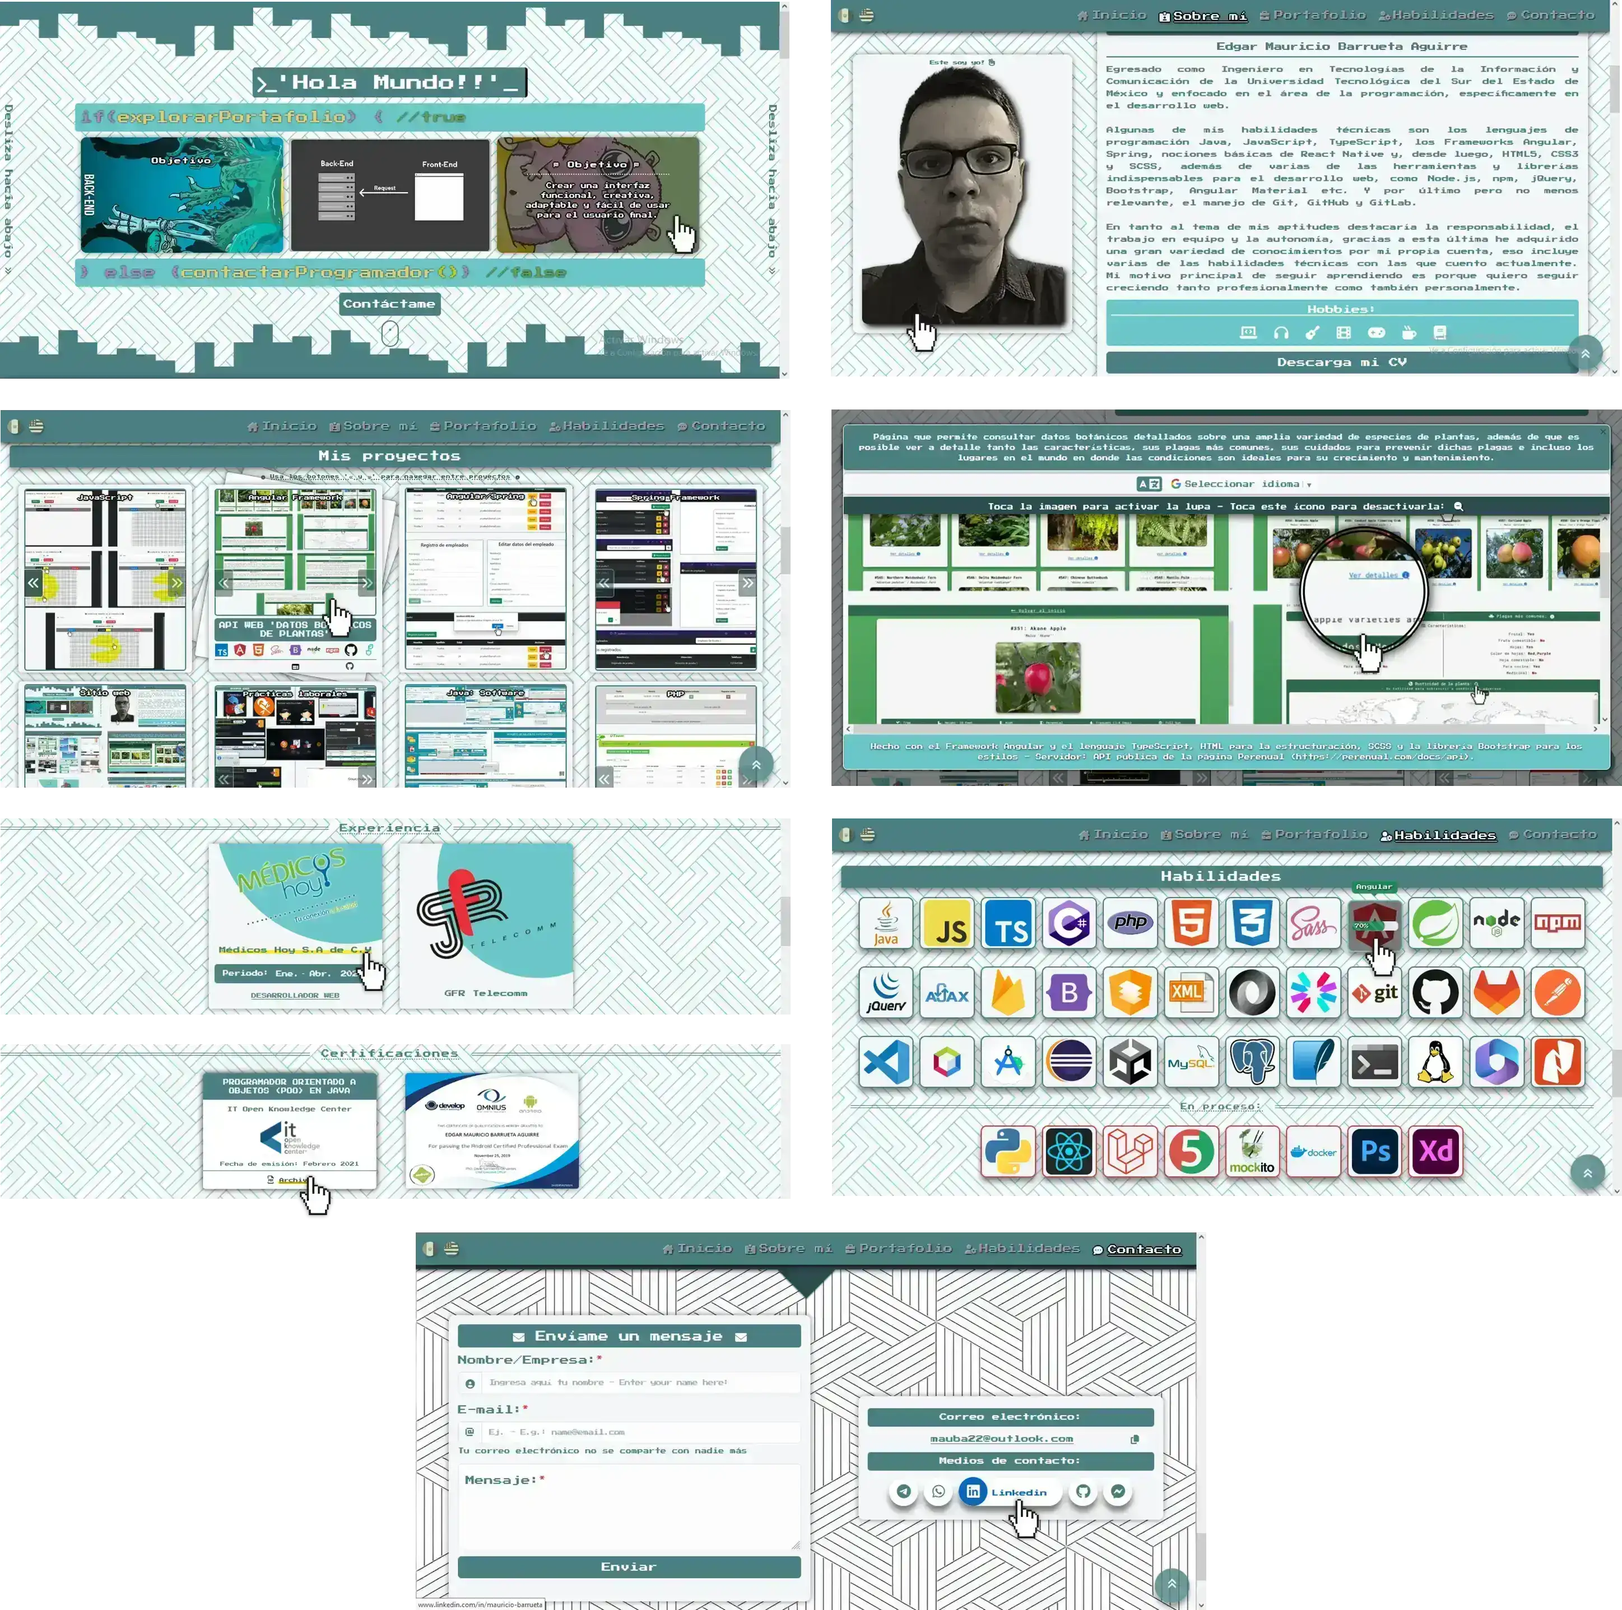
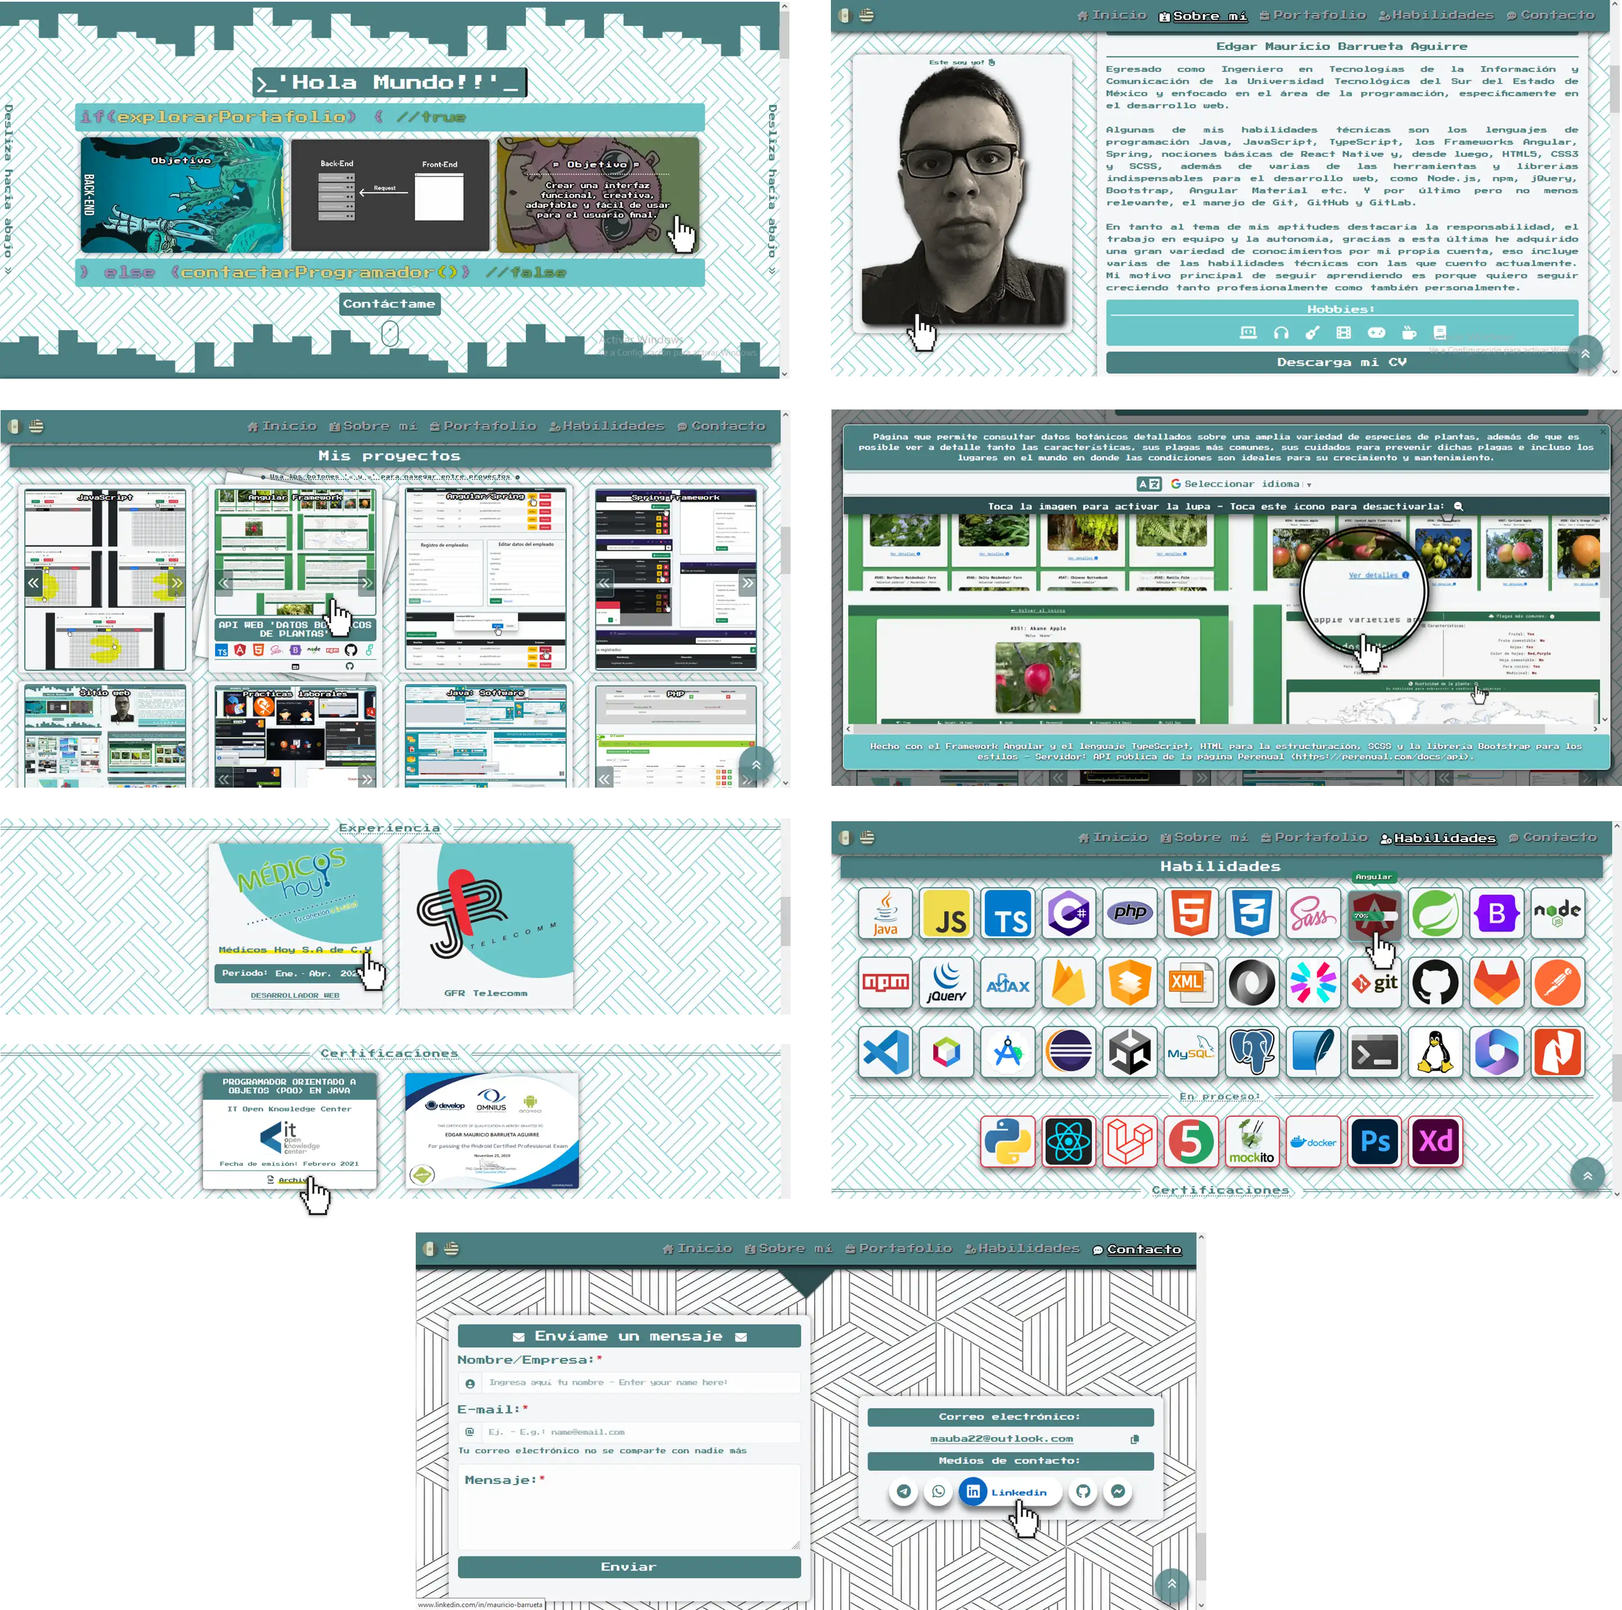
Updates

diff --git a/index.html b/index.html
@@ -147,10 +147,10 @@
       <div class="p-cards-container"> 
         <div class="project-card carousel slide" id="JavaScriptAPIProjects" data-bs-ride="carousel">
           <div class="carousel-inner">
-            <div class="img-container carousel-item active" data-bs-interval="30000">
+            <div class="img-container carousel-item" data-bs-interval="30000">
               <span class="img-carousel-title">JavaScript</span>
               <img src="img/proyectos/PixelArt.webp" class="img-item" alt="HTML para la estructuración, JavaScript y algo de jQuery para la funcionalidad, 
-                CSS y Bootstrap para los estilos y el módulo gh-pages de npm para la publicación de la página en GitHub Pages." data-title="Página que 
+                CSS, el framework Bootstrap para los estilos y el módulo gh-pages de npm para la publicación de la página en GitHub Pages." data-title="Página que 
                 permite dibujar al estilo arte de pixel, con la posibilidad de crear una cuadrícula de hasta 50x25 píxeles, cuenta con una paleta de colores y los
                 botones de borrar en caso de error y el de dibujar para continuar con el trazo.">
               <div class="details carousel-caption">
@@ -166,6 +166,30 @@
                   <li></li>
                   <li>
                     <a href="https://github.com/MauricioBarrueta/PixelArtGenerator.git" data-bs-toggle="tooltip" data-bs-placement="top" 
+                      data-bs-custom-class="web-icons-a" title="GitHub" target="_blank"></a>
+                  </li>             
+                </ul>
+              </div>
+            </div>
+            <div class="img-container carousel-item active" data-bs-interval="30000">
+              <span class="img-carousel-title">JavaScript</span>
+              <img src="img/proyectos/PasswordGenerator.webp" class="img-item" alt="HTML para la estructuración, JavaScript y algo de jQuery para la funcionalidad, 
+                SCSS, el framework Bootstrap para los estilos y el módulo gh-pages de npm para la publicación de la página en GitHub Pages." data-title="Sitio web 
+                para generar contraseñas aleatorias personalizadas, permite elegir cuáles caracteres puede incluir y cuáles no, si puede tener espacios o caracteres
+                repetidos y la longitud de la contraseña, que a mayor longitud mayor seguridad y viceversa.">
+              <div class="details carousel-caption">
+                <h2 class="carousel-project-title" data-es="Generador de contraseñas gratuito" data-en="Free password generator"></h2>
+                <div class="tec-icons">
+                  <ul class="static-projects-icons p-tecnologies"></ul>
+                </div>  
+                <ul class="web-icons">              
+                  <li>
+                    <a href="https://mauriciobarrueta.github.io/PasswordGenerator/" data-bs-toggle="tooltip" data-bs-placement="top" 
+                      data-bs-custom-class="web-icons-a" title="Web" target="_blank"></a>
+                  </li>
+                  <li></li>
+                  <li>
+                    <a href="https://github.com/MauricioBarrueta/PasswordGenerator.git" data-bs-toggle="tooltip" data-bs-placement="top" 
                       data-bs-custom-class="web-icons-a" title="GitHub" target="_blank"></a>
                   </li>             
                 </ul>
@@ -230,11 +254,10 @@
             </div>            
             <div class="img-container carousel-item" data-bs-interval="30000">
               <span class="img-carousel-title">JavaScript</span>
-              <img src="img/proyectos/RMAPI.webp" class="img-item"
-                alt="HTML para la estructuración y JavaScript para la funcionalidad, CSS y la librería Bootstrap para los estilos y el módulo 
-                gh-pages de npm para la publicación de la página en GitHub Pages - Servidor: API de la serie Rick and Morty (https://rickandmortyapi.com/)"
-                data-title="Proyecto JavaScript: Página que consume la API la cual permite consultar todos y cada uno de los personajes de la serie 'Rick and Morty', 
-                así como los datos correspondientes de cada uno de ellos.">
+              <img src="img/proyectos/RMAPI.webp" class="img-item" alt="HTML para la estructuración y JavaScript para la funcionalidad, CSS, el 
+                framework Bootstrap para los estilos y el módulo gh-pages de npm para la publicación de la página en GitHub Pages - Servidor: API 
+                de la serie Rick and Morty (https://rickandmortyapi.com/)" data-title="Proyecto JavaScript: Página que consume la API la cual permite 
+                consultar todos y cada uno de los personajes de la serie 'Rick and Morty', así como los datos correspondientes de cada uno de ellos.">
               <div class="details carousel-caption">
                 <h2 class="carousel-project-title" data-es="API Web 'Rick and Morty'" data-en="'Rick and Morty' Web API"></h2>
                 <div class="tec-icons">
@@ -278,7 +301,7 @@
             <div class="img-container carousel-item active" data-bs-interval="30000">
               <span class="img-carousel-title">Angular Framework</span>
               <img src="img/proyectos/PlantsAPI.webp" class="img-item" alt="Hecho con el Framework Angular y el lenguaje TypeScript, HTML para la 
-                estructuración, SCSS y la librería Bootstrap para los estilos - Servidor: API pública de la página Perenual (https://perenual.com/docs/api)." 
+                estructuración, SCSS y Bootstrap para los estilos - Servidor: API pública de la página Perenual (https://perenual.com/docs/api)." 
                 data-title="Página que permite consultar datos botánicos detallados sobre una amplia variedad de especies de plantas, además de que es posible 
                 ver a detalle tanto las características, sus plagas más comunes, sus cuidados para prevenir dichas plagas e incluso los lugares en el mundo 
                 en donde las condiciones son ideales para su crecimiento y mantenimiento.">
@@ -303,7 +326,7 @@
             <div class="img-container carousel-item" data-bs-interval="30000">
               <span class="img-carousel-title">Angular Framework</span>
               <img src="img/proyectos/OMDbAPI.webp" class="img-item" alt="Hecho con el Framework Angular y el lenguaje TypeScript, HTML para la 
-                estructuración, SCSS y la librería Bootstrap para los estilos - Servidor: API pública 'OMDb API' (http://www.omdbapi.com/)." 
+                estructuración, SCSS y el framework Bootstrap para los estilos - Servidor: API pública 'OMDb API' (http://www.omdbapi.com/)." 
                 data-title="Página que permite consultar información detallada sobre una amplia variedad de películas y series de televisión,
                 además de que, en el caso de las series, es posible consultar cada temporada y cada capítulo correspondiente a esta, así como 
                 los datos de cada capítulo.">     
@@ -328,7 +351,7 @@
             <div class="img-container carousel-item" data-bs-interval="30000">
               <span class="img-carousel-title">Angular Framework</span>
               <img src="img/proyectos/wikiAPI.png" class="img-item" alt="Hecho con el framework Angular y el lenguaje TypeScript, HTML para la 
-                estructuración, CSS y la librería Bootstrap para los estilos - Servidor: API pública 'MediaWiki', software utilizado por Wikipedia 
+                estructuración, CSS y el framework Bootstrap para los estilos - Servidor: API pública 'MediaWiki', software utilizado por Wikipedia 
                 (www.mediawiki.org/wiki/API:Tutorial)." data-title="Página que permite filtrar y consultar una amplia variedad de información disponible 
                 en el sitio web Wikipedia, el usuario ingresa lo que desea buscar y dependiendo la palabra se filtran los resultados que coincidan.">   
               <div class="details carousel-caption">
@@ -397,8 +420,8 @@
             </div>               
             <div class="img-container carousel-item" data-bs-interval="30000">
               <span class="img-carousel-title">Angular Framework</span>
-              <img src="img/proyectos/Ecomm.png" class="img-item" alt="Hecho únicamente con el framework Angular y el lenguaje
-                TypeScript, HTML para la estructuración, Angular Material, CSS y la librería Bootstrap para los estilos - Servidor: JSON Server (npm) local."
+              <img src="img/proyectos/Ecomm.png" class="img-item" alt="Hecho únicamente con el framework Angular y el lenguaje TypeScript, HTML 
+                para la estructuración, Angular Material, CSS y el framework Bootstrap para los estilos - Servidor: JSON Server (npm) local."
                 data-title="Práctica de un sistema 'e-commerce' el cual simula la compra de uno o varios productos por medio de un carrito de compras, 
                 además de escoger si se recoge en paquetería o se entrega al domicilio especificado.">   
               <div class="details carousel-caption">
@@ -442,7 +465,7 @@
           <div class="img-container">
             <span class="img-carousel-title">Angular/Spring</span>
             <img src="img/proyectos/FullStackCRUD.png" class="img-item" alt="Backend: Java, TypeScript y Spring Framework (Spring Web, Spring Data JPA) 
-              - Frontend: El Framework Angular, HTML para la estructuración, CSS, la librería Bootstrap para los estilos - Servidor: Base de Datos MySQL." 
+              - Frontend: El Framework Angular, HTML para la estructuración, CSS y el framework Bootstrap para los estilos - Servidor: Base de Datos MySQL." 
               data-title="Práctica de una API RESTful la cual permite realizar las operaciones CRUD, simulando un proyecto en donde el lado Backend y el lado 
               Frontend son desarrollados de manera independiente, pero que al mismo tiempo son dependientes uno de otro.">
           </div>
@@ -557,9 +580,9 @@
           <div class="img-container">
             <span class="img-carousel-title" data-es="Sitio web" data-en="Website"></span>
             <img src="img/proyectos/Portafolio.webp" class="img-item" alt="HTML para la estructuración, JavaScript y jQuery para la funcionalidad, 
-              CSS y la librería Bootstrap para los estilos y el módulo gh-pages de 'npm' para la publicación de la página en GitHub Pages." 
-              data-title="Portafolio web en el cuál muestro mi experiencia como desarrollador, permite descargar mi CV en formato PDF y además, 
-              envíar un e-mail directamente a mi bandeja de entrada, entre otras funciones.">
+              CSS y el framework Bootstrap para los estilos, además del módulo gh-pages de 'npm' para la publicación de la página en GitHub Pages." 
+              data-title="Portafolio web desarrollado por un servidor en el cuál muestro mi experiencia como desarrollador y algunas de mis habilidades, 
+              además de que permite descargar mi Currículum en formato PDF y también envíar un e-mail directamente a mi bandeja de entrada, entre otras funciones.">
           </div>
           <button class="showInfo"></button>
           <div class="details">
@@ -701,7 +724,7 @@
             <div class="img-container carousel-item" data-bs-interval="30000">
               <span class="img-carousel-title">PHP</span>
               <img src="img/proyectos/RedSocial.webp" class="img-item" alt="Hecho con PHP, JavaScript, jQuery y AJAX, HTML para la 
-                estructuración, CSS y la librería Bootstrap para los estilos - Servidor: Base de Datos MySQL." data-title="Proyecto que simula 
+                estructuración, CSS y el framework Bootstrap para los estilos - Servidor: Base de Datos MySQL." data-title="Proyecto que simula 
                 una red social enfocada a recién egresados y empresas en busca de nuevos talentos, permite realizar publicaciones, enviar solicitudes 
                 de amistad, postulaciones y además, cuenta con un chat en donde ambas partes se pueden comunicar entre sí.">  
               <div class="details carousel-caption">
@@ -855,7 +878,7 @@
           <div class="img-container">
             <span class="img-carousel-title">Java: Servlet</span>
             <img src="img/proyectos/Servlet.png" class="img-item" alt="Hecho con Java y la Tecnología JavaServer Pages (JSP), JavaScript y 
-              jQuery, HTML para la estructuración, CSS y la librería Bootstrap para los estilos - Servidor: Base de Datos MySQL." data-title="
+              jQuery, HTML para la estructuración, CSS y el framework Bootstrap para los estilos - Servidor: Base de Datos MySQL." data-title="
               Práctica muy sencilla de un sistema hecho con la tecnología JSP el cual simula una web de una empresa enfocada a la venta y renta
               de automóviles, todo mediante las operaciones CRUD y de acuerdo a los privilegios que tenga cada usuario (administrador o empleado).">
           </div>

diff --git a/css/styles.css b/css/styles.css
@@ -401,8 +401,9 @@ img.Docker-Icon { content: url(../svg/Docker.svg); } img.AdobeXD-Icon { content:
     font-size: 8px;    
 }
 #titleInfo::before, #titleInfo::after, .carousel-instructions::before, .carousel-instructions::after { 
-    content: "\f05a"; margin-inline: 8px; text-decoration: none !important; 
+    content: "\f05a"; margin-inline: 8px; font-size: 10px; text-decoration: none !important; 
 }
+.carousel-instructions::after { content: "\f302"; }
 .carousel-instructions {   
     font-size: 7px; letter-spacing: 1px;    
 }
@@ -433,15 +434,15 @@ img.Docker-Icon { content: url(../svg/Docker.svg); } img.AdobeXD-Icon { content:
     height: 15%; top: auto; width: auto; bottom: 40%; /* bottom: 85%; */      
 }
 .carousel-control-prev:hover, .carousel-control-next:hover { opacity: 1; }
-.carousel-control-prev { border-radius: 0 5px 5px 0; left: 10px; border-left: 0; }
-.carousel-control-next { border-radius: 5px 0 0 5px;  right: 10px; border-right: 0; }
+.carousel-control-prev { border-radius: 0 5px 5px 0; left: 0; border-left: 0; }
+.carousel-control-next { border-radius: 5px 0 0 5px;  right: 0; border-right: 0; }
 .carousel-control-prev-icon, .carousel-control-next-icon {  /* Carousel Buttons Icons */
-    scale: 0.7; filter: invert(100%); 
+    scale: 0.55; filter: invert(100%); 
     transition: 0.25s;  
 }
 .carousel-control-prev-icon { background: url(../svg/angles-left.svg); }
-.carousel-control-prev:hover .carousel-control-prev-icon { transform: translateX(-2px); }
-.carousel-control-next:hover .carousel-control-next-icon { transform: translateX(2px); }
+.carousel-control-prev:hover .carousel-control-prev-icon { transform: translateX(-3px); }
+.carousel-control-next:hover .carousel-control-next-icon { transform: translateX(3px); }
 .carousel-control-next-icon { background: url(../svg/angles-right.svg); }
 .img-carousel-title {
     width: 100%; position: relative; display: inline-block; 
@@ -929,7 +930,7 @@ img.Docker-Icon { content: url(../svg/Docker.svg); } img.AdobeXD-Icon { content:
 }
 .footer-bottom p { font-size: 12px; word-spacing: 2px;  text-transform: capitalize;  margin: 0; }  /* Footer-Bottom div text */
 .footer-bottom>p::after {
-    content: "\f597"; font: var(--fa-font-regular); font-size: 16px;
+    content: "😏"; font: var(--fa-font-regular); font-size: 16px;
     margin-left: 10px; display: inline-block; animation: var(--fa-bounce-animation); --fa-bounce-height: 1
 }
 .footer-bottom span { text-transform: uppercase; opacity: .5; font-weight: 200; }

diff --git a/templates/templates.html b/templates/templates.html
@@ -251,6 +251,13 @@
             style="width: 65%" aria-valuenow="65" aria-valuemin="0" aria-valuemax="100">65%</div>
         </div>
       </div>
+      <div class="card-skills" data-bs-toggle="tooltip" data-bs-placement="top" data-bs-custom-class="tooltip-success" title="Bootstrap">
+        <img class="Bootstrap-Icon position-absolute top-50 start-50 translate-middle" style="height: auto;">
+        <div class="info-skills progress">
+          <div class="progress-bar progress-bar-striped progress-bar-animated bg-success" role="progressbar"
+            style="width: 75%" aria-valuenow="75" aria-valuemin="0" aria-valuemax="100">75%</div>
+        </div>
+      </div>
       <div class="card-skills" data-bs-toggle="tooltip" data-bs-placement="top" data-bs-custom-class="tooltip-warning" title="Node.js">
         <img class="Node-Icon position-absolute top-50 start-50 translate-middle">
         <div class="info-skills progress">
@@ -285,14 +292,7 @@
           <div class="progress-bar progress-bar-striped progress-bar-animated bg-danger" role="progressbar" style="width: 30%"
             aria-valuenow="30" aria-valuemin="0" aria-valuemax="100">30%</div>
         </div>
-      </div>
-      <div class="card-skills" data-bs-toggle="tooltip" data-bs-placement="top" data-bs-custom-class="tooltip-success" title="Bootstrap">
-        <img class="Bootstrap-Icon position-absolute top-50 start-50 translate-middle" style="height: auto;">
-        <div class="info-skills progress">
-          <div class="progress-bar progress-bar-striped progress-bar-animated bg-success" role="progressbar"
-            style="width: 75%" aria-valuenow="75" aria-valuemin="0" aria-valuemax="100">75%</div>
-        </div>
-      </div>
+      </div>      
       <div class="card-skills" data-bs-toggle="tooltip" data-bs-placement="top" data-bs-custom-class="tooltip-warning" title="Angular Material">
         <img class="AngMaterial-Icon position-absolute top-50 start-50 translate-middle">
         <div class="info-skills progress">

diff --git a/js/main.js b/js/main.js
@@ -6,14 +6,16 @@ window.onload = () => {
     /* Se activa la animación del texto de la introducción y el scroll */
     $('.h1-h').css("animation-delay", "1.52s");
     switchLang('es') 
+
+    /* Verifica si el iframe se ha cargado */
+    var iframe = document.getElementById('iframeTemplate');
+    if(iframe === null) window.location.reload()   
+
     var tooltipTriggerList = document.querySelectorAll('[data-bs-toggle="tooltip"]')
     var tooltipList = [...tooltipTriggerList].map(tooltipTriggerEl => new bootstrap.Tooltip(tooltipTriggerEl))           
 }
 
-$(document).ready(function () {
-    /* Verifica si el iframe se ha cargado */
-    var iframe = document.getElementById('iframeTemplate');
-    if(iframe === null) window.location.reload()    
+$(document).ready(function () {     
     /* Se inicializa AOS Library */
     AOS.init({ 
         startEvent: 'DOMContentLoaded',
